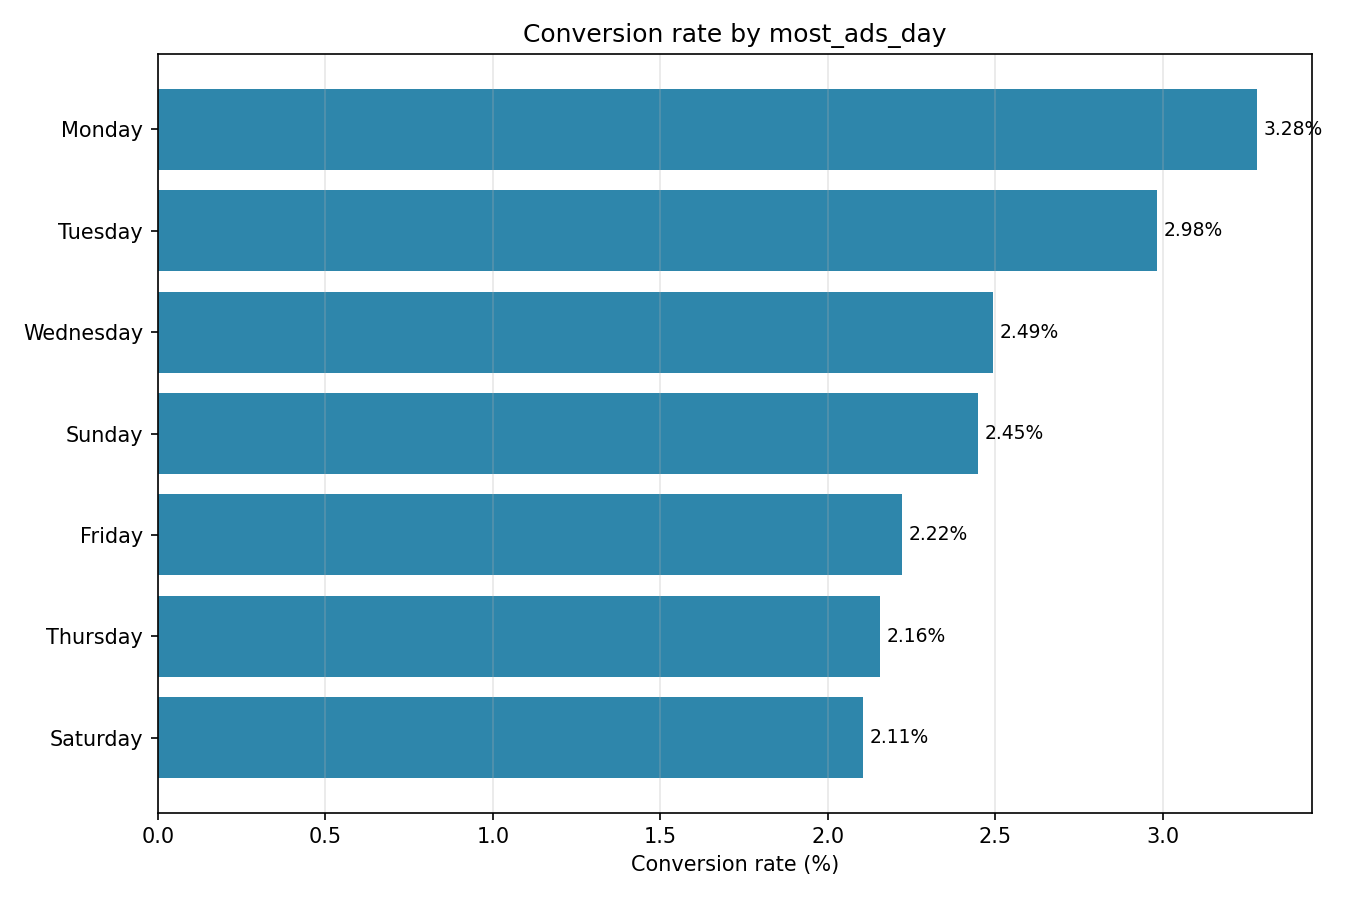
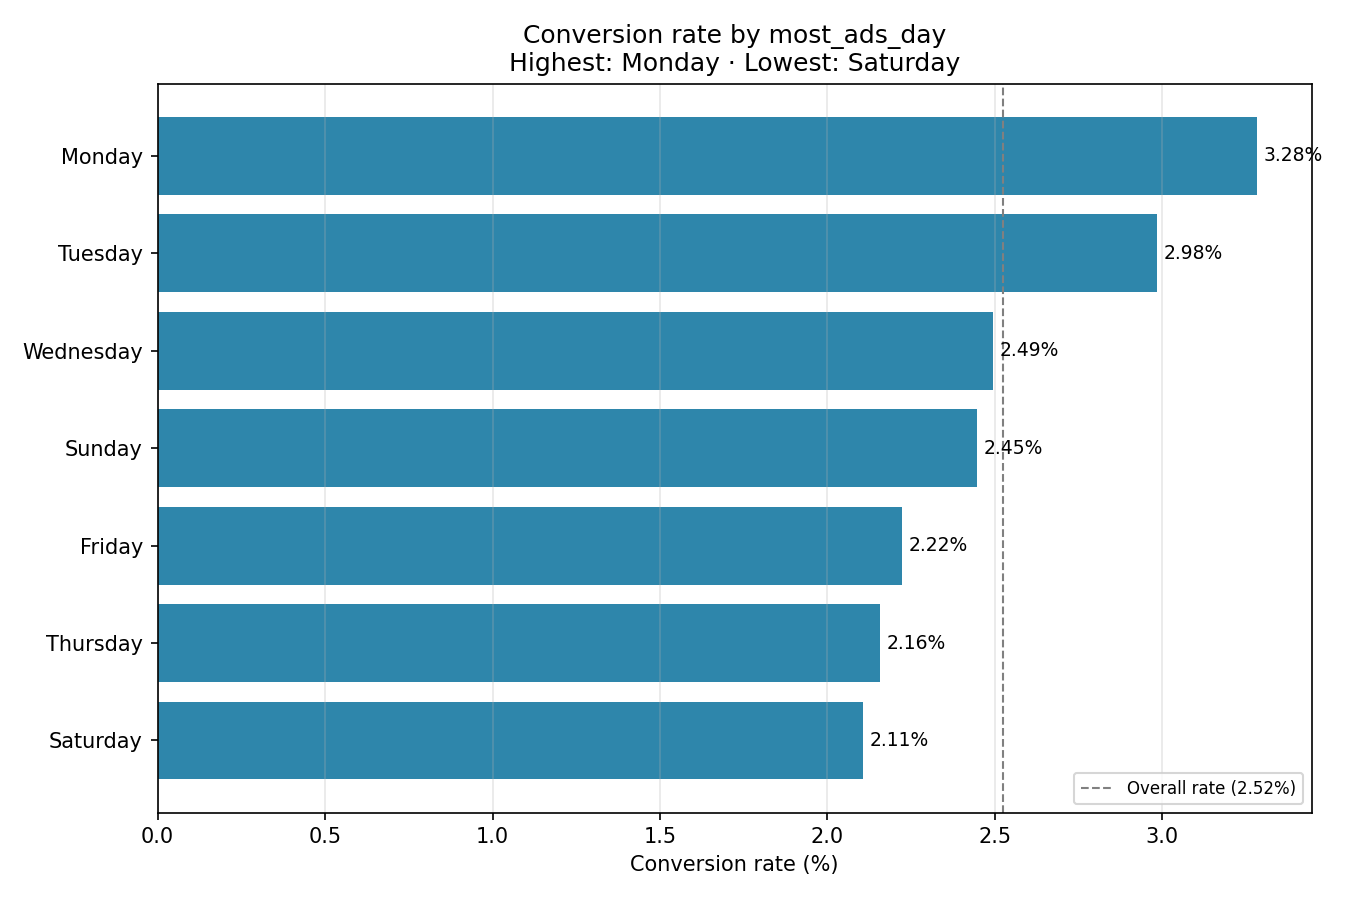
Address PR review: robustness fixes, clearer step 5/6 narrative and summaries
- Ensure results/ and figures/ output dirs exist before writing (all scripts)
- data_exploration: validate expected raw columns before rename, remove
  unused numpy import, save a summary deliverable, note missing date range
- key_metrics: note conversion_rate is the only comparable metric available
- fisher_exact_tests: lead with the headline test_group comparison, rename
  total_attempts -> total_users, add a significant-pairs summary + takeaway,
  annotate the rate comparison chart
- multiple_comparisons_correction: explain per-family correction counts,
  print comparisons that lost significance after correction

diff --git a/lab_statistical_analysis_mudit/fisher_exact_tests.py b/lab_statistical_analysis_mudit/fisher_exact_tests.py
@@ -1,8 +1,15 @@
 """
 Step 5: Compare Binary Outcomes Using Fisher's Exact Test
 =============================================================
-Pairwise Fisher's exact tests on `converted` across the 7 most_ads_day groups,
-plus the headline ad-vs-psa experimental comparison.
+Two binary-outcome (`converted`) comparisons, both required by this step:
+
+  1. HEADLINE: test_group (ad vs. psa) — the dataset's actual randomized
+     experiment arm, and the primary binary-outcome comparison this lab asks for.
+  2. SECONDARY: most_ads_day (7 groups, 21 pairs) — day-of-week is not an
+     experiment arm, but it's the only other categorical grouping variable
+     this dataset supports (see dataset_selection.md), and it's what drives
+     the ad-delivery-timing recommendation in business_recommendations.py.
+     Read these as descriptive/exploratory, not causal, comparisons.
 """
 import itertools
 import os
@@ -16,23 +23,28 @@ os.chdir(os.path.dirname(os.path.abspath(__file__)))  # run correctly regardless
 
 pd.set_option("display.width", 120)
 
+os.makedirs("results", exist_ok=True)
+os.makedirs("figures", exist_ok=True)
+
 df = pd.read_csv("data/marketing_data.csv")
 day_order = ["Monday", "Tuesday", "Wednesday", "Thursday", "Friday", "Saturday", "Sunday"]
 
 
 def run_pairwise_fisher(data, group_col, groups):
+    # total_users: the outcome here is one conversion decision per user, not repeated
+    # trials, so "users" (not "attempts") is the accurate denominator label.
     agg = data.groupby(group_col, observed=True)["converted"].agg(
-        conversions="sum", total_attempts="count"
+        conversions="sum", total_users="count"
     )
-    agg["non_conversions"] = agg["total_attempts"] - agg["conversions"]
-    agg["rate"] = agg["conversions"] / agg["total_attempts"]
+    agg["non_conversions"] = agg["total_users"] - agg["conversions"]
+    agg["rate"] = agg["conversions"] / agg["total_users"]
     print(agg.round(4))
     print()
 
     results = []
     for group_a, group_b in itertools.combinations(groups, 2):
-        conv_a, tot_a, nonconv_a = agg.loc[group_a, ["conversions", "total_attempts", "non_conversions"]]
-        conv_b, tot_b, nonconv_b = agg.loc[group_b, ["conversions", "total_attempts", "non_conversions"]]
+        conv_a, tot_a, nonconv_a = agg.loc[group_a, ["conversions", "total_users", "non_conversions"]]
+        conv_b, tot_b, nonconv_b = agg.loc[group_b, ["conversions", "total_users", "non_conversions"]]
 
         table = [[conv_a, nonconv_a], [conv_b, nonconv_b]]
         odds_ratio, p_value = fisher_exact(table, alternative="two-sided")
@@ -66,9 +78,23 @@ def run_pairwise_fisher(data, group_col, groups):
     return pd.DataFrame(results), agg
 
 
-# 1. Pairwise Fisher's exact across most_ads_day (7 groups, 21 pairs) --------
+# 1. HEADLINE comparison: test_group (ad vs. psa), the randomized experiment arm --------
 print("=" * 70)
-print("CONVERSION SUMMARY BY most_ads_day")
+print("HEADLINE COMPARISON: test_group (ad vs. psa)")
+print("=" * 70)
+arm_df, arm_agg = run_pairwise_fisher(df, "test_group", ["ad", "psa"])
+arm_df.to_csv("results/fisher_results_ad_vs_psa.csv", index=False)
+print(
+    f"\nTakeaway: ad vs. psa differ by {arm_df.loc[0, 'pct_difference']:+.1f}% relative "
+    f"(p={arm_df.loc[0, 'p_value']:.2e}) — statistically significant and, at this size of "
+    "relative difference, also practically meaningful for the experiment's core question "
+    "(does showing the ad increase conversion vs. the psa control)."
+)
+
+# 2. SECONDARY comparison: most_ads_day (7 groups, 21 pairs, descriptive/exploratory) ----
+print()
+print("=" * 70)
+print("CONVERSION SUMMARY BY most_ads_day (secondary grouping — see module docstring)")
 print("=" * 70)
 fisher_df, day_agg = run_pairwise_fisher(df, "most_ads_day", day_order)
 fisher_df.to_csv("results/fisher_results_by_day.csv", index=False)
@@ -77,23 +103,40 @@ n_sig = fisher_df["significant_uncorrected"].sum()
 print()
 print(f"Total comparisons: {len(fisher_df)} | Significant at alpha=0.05 (uncorrected): {n_sig}")
 
-# 2. Headline comparison: test_group (ad vs. psa) ----------------------------
+# 2b. Compact summary of significant pairs + practical-meaningfulness takeaway -----------
+# "Practically meaningful" here is a rough screen (>=10% relative difference), not a formal
+# effect-size threshold — Step 6 (FDR correction) and business_recommendations.py are what
+# actually decide which of these findings drive the recommendation.
+sig_pairs = fisher_df[fisher_df["significant_uncorrected"]].copy()
+sig_pairs["practically_meaningful"] = sig_pairs["pct_difference"].abs() >= 10
 print()
-print("=" * 70)
-print("HEADLINE COMPARISON: test_group (ad vs. psa)")
-print("=" * 70)
-arm_df, arm_agg = run_pairwise_fisher(df, "test_group", ["ad", "psa"])
-arm_df.to_csv("results/fisher_results_ad_vs_psa.csv", index=False)
+print("Significant pairs (uncorrected) — rate difference and a rough practical-meaningfulness screen:")
+print(
+    sig_pairs[["group_a", "group_b", "rate_a", "rate_b", "pct_difference", "p_value", "practically_meaningful"]]
+    .sort_values("pct_difference", key=abs, ascending=False)
+    .round(4)
+    .to_string(index=False)
+)
+n_meaningful = sig_pairs["practically_meaningful"].sum()
+print(
+    f"\nTakeaway: {n_sig} of {len(fisher_df)} most_ads_day pairs are significant before correction; "
+    f"{n_meaningful} of those also clear a >=10% relative-difference screen for practical relevance. "
+    "See multiple_comparisons_correction.py for which of these survive FDR/Bonferroni correction."
+)
 
 # 3. Visualize rate comparisons (by most_ads_day) ----------------------------
 sorted_agg = day_agg.sort_values("rate")
+overall_rate = df["converted"].mean() * 100
+best_day, worst_day = sorted_agg["rate"].idxmax(), sorted_agg["rate"].idxmin()
 fig, ax = plt.subplots(figsize=(9, 6))
 bars = ax.barh(sorted_agg.index.astype(str), sorted_agg["rate"] * 100, color="#2E86AB")
 for bar, rate in zip(bars, sorted_agg["rate"]):
     ax.text(bar.get_width() + 0.02, bar.get_y() + bar.get_height() / 2,
              f"{rate:.2%}", va="center", fontsize=9)
+ax.axvline(overall_rate, color="gray", linestyle="--", linewidth=1, label=f"Overall rate ({overall_rate:.2f}%)")
 ax.set_xlabel("Conversion rate (%)")
-ax.set_title("Conversion rate by most_ads_day")
+ax.set_title(f"Conversion rate by most_ads_day\nHighest: {best_day} · Lowest: {worst_day}")
+ax.legend(fontsize=8)
 ax.grid(axis="x", alpha=0.3)
 fig.tight_layout()
 fig.savefig("figures/rate_comparison.png", dpi=150)

diff --git a/lab_statistical_analysis_mudit/data_exploration.py b/lab_statistical_analysis_mudit/data_exploration.py
@@ -9,7 +9,6 @@ fields and how the grouping variable / metrics were adapted.
 """
 import os
 
-import numpy as np
 import pandas as pd
 
 os.chdir(os.path.dirname(os.path.abspath(__file__)))  # run correctly regardless of invocation directory
@@ -19,9 +18,22 @@ pd.set_option("display.max_columns", 20)
 
 RAW_PATH = "../data/marketing_AB.csv"
 CLEAN_PATH = "data/marketing_data.csv"
+SUMMARY_PATH = "results/data_exploration_summary.csv"
+
+os.makedirs("data", exist_ok=True)
+os.makedirs("results", exist_ok=True)
 
 # 1. Load ---------------------------------------------------------------
 df = pd.read_csv(RAW_PATH)
+
+EXPECTED_COLUMNS = {
+    "user id", "test group", "converted", "total ads", "most ads day", "most ads hour",
+}
+missing = EXPECTED_COLUMNS - set(df.columns)
+assert not missing, (
+    f"Expected column(s) missing from {RAW_PATH}: {sorted(missing)} — "
+    "the rename step below assumes these exact source names are present."
+)
 
 print("=" * 70)
 print("RAW DATA — shape, columns, dtypes")
@@ -96,8 +108,40 @@ print("Continuous metric: total_ads (ad exposure per user)")
 print("Binary outcome: converted")
 print()
 print("Overall conversion rate: {:.4%}".format(df["converted"].mean()))
+print()
+print("Date range: not available — this dataset has no date/timestamp column, only the "
+      "categorical most_ads_day / most_ads_hour fields (see dataset_selection.md).")
 
-# 5. Save ---------------------------------------------------------------
+# 5. Save quality-check summary -----------------------------------------------
+# A compact, reviewable record of the checks above (group sizes + data quality),
+# separate from the console log, so this deliverable doesn't require re-running the script.
+summary_df = pd.DataFrame(
+    {
+        "check": [
+            "rows",
+            "missing_values_total",
+            "duplicate_rows",
+            "duplicate_user_ids",
+            "date_range",
+            "overall_conversion_rate",
+        ],
+        "value": [
+            len(df),
+            int(df.isnull().sum().sum()),
+            int(df.duplicated().sum()),
+            int(df["user_id"].duplicated().sum()),
+            "not available (no date column)",
+            f"{df['converted'].mean():.4%}",
+        ],
+    }
+)
+group_counts = df["most_ads_day"].value_counts().sort_index().rename_axis("check").reset_index(name="value")
+group_counts["check"] = "group_count_" + group_counts["check"].astype(str)
+summary_df = pd.concat([summary_df, group_counts], ignore_index=True)
+summary_df.to_csv(SUMMARY_PATH, index=False)
+print(f"Saved exploration summary to {SUMMARY_PATH}")
+
+# 6. Save cleaned dataset -------------------------------------------------
 df.to_csv(CLEAN_PATH, index=False)
 print()
 print(f"Saved cleaned dataset to {CLEAN_PATH} ({len(df):,} rows)")

diff --git a/lab_statistical_analysis_mudit/multiple_comparisons_correction.py b/lab_statistical_analysis_mudit/multiple_comparisons_correction.py
@@ -16,6 +16,9 @@ os.chdir(os.path.dirname(os.path.abspath(__file__)))  # run correctly regardless
 
 pd.set_option("display.width", 120)
 
+os.makedirs("results", exist_ok=True)
+os.makedirs("figures", exist_ok=True)
+
 ALPHA = 0.05
 
 ttest_df = pd.read_csv("results/ttest_results.csv")
@@ -33,6 +36,11 @@ print(f"At alpha={ALPHA}, we expect ~{expected_false_positives:.2f} false positi
       f"even if none of the true underlying differences existed.")
 print("Some of the 'significant' results found in Steps 4-5 are therefore likely to be noise, "
       "not real differences — correction is needed before acting on them.")
+print("Note: Bonferroni and FDR below are each applied separately within their own test family "
+      "(21 t-tests, 21 Fisher's exact tests) — that's why the correction counts are out of 21 "
+      "per family, not out of the combined 42. Each family is a distinct set of null hypotheses, "
+      "so correcting them jointly would conflate two different questions (mean ad exposure vs. "
+      "conversion rate) into one.")
 
 
 def apply_corrections(df, label):
@@ -61,6 +69,17 @@ def apply_corrections(df, label):
     if n_fdr > 0:
         print("\nComparisons remaining significant after FDR:")
         print(df.loc[df["significant_fdr"], ["group_a", "group_b", "p_value", "p_value_fdr"]])
+
+    # Correction only ever removes significance relative to the uncorrected result (never adds
+    # it), so "changed status" means: significant uncorrected, but not after this method.
+    flipped_bonf = df.loc[(df["p_value"] < ALPHA) & ~df["significant_bonferroni"]]
+    flipped_fdr = df.loc[(df["p_value"] < ALPHA) & ~df["significant_fdr"]]
+    if len(flipped_bonf) > 0:
+        print("\nComparisons that lost significance under Bonferroni (were significant uncorrected):")
+        print(flipped_bonf[["group_a", "group_b", "p_value"]].to_string(index=False))
+    if len(flipped_fdr) > 0:
+        print("\nComparisons that lost significance under FDR (were significant uncorrected):")
+        print(flipped_fdr[["group_a", "group_b", "p_value", "p_value_fdr"]].to_string(index=False))
 
     return df, n_uncorrected, n_bonf, n_fdr
 

diff --git a/lab_statistical_analysis_mudit/key_metrics.py b/lab_statistical_analysis_mudit/key_metrics.py
@@ -18,6 +18,9 @@ os.chdir(os.path.dirname(os.path.abspath(__file__)))  # run correctly regardless
 
 pd.set_option("display.width", 120)
 
+os.makedirs("results", exist_ok=True)
+os.makedirs("figures", exist_ok=True)
+
 df = pd.read_csv("data/marketing_data.csv")
 day_order = ["Monday", "Tuesday", "Wednesday", "Thursday", "Friday", "Saturday", "Sunday"]
 df["most_ads_day"] = pd.Categorical(df["most_ads_day"], categories=day_order, ordered=True)
@@ -53,6 +56,9 @@ print("=" * 70)
 print("ARM SUMMARY — by test_group (ad vs. psa)")
 print("=" * 70)
 print(arm_summary)
+print()
+print("Note: conversion_rate is the main comparable metric in this lab — this dataset has no "
+      "cost, revenue, or impression data, so CPA, ROAS, and CTR are not available (see dataset_selection.md).")
 
 group_summary.to_csv("results/group_summary_by_day.csv")
 arm_summary.to_csv("results/arm_summary_ad_vs_psa.csv")

diff --git a/lab_statistical_analysis_mudit/ttest_comparisons.py b/lab_statistical_analysis_mudit/ttest_comparisons.py
@@ -16,6 +16,9 @@ os.chdir(os.path.dirname(os.path.abspath(__file__)))  # run correctly regardless
 
 pd.set_option("display.width", 120)
 
+os.makedirs("results", exist_ok=True)
+os.makedirs("figures", exist_ok=True)
+
 df = pd.read_csv("data/marketing_data.csv")
 day_order = ["Monday", "Tuesday", "Wednesday", "Thursday", "Friday", "Saturday", "Sunday"]
 

diff --git a/lab_statistical_analysis_mudit/business_recommendations.py b/lab_statistical_analysis_mudit/business_recommendations.py
@@ -15,6 +15,8 @@ os.chdir(os.path.dirname(os.path.abspath(__file__)))  # run correctly regardless
 pd.set_option("display.width", 120)
 rng = np.random.default_rng(7)
 
+os.makedirs("results", exist_ok=True)
+
 df = pd.read_csv("data/marketing_data.csv")
 day_order = ["Monday", "Tuesday", "Wednesday", "Thursday", "Friday", "Saturday", "Sunday"]
 

diff --git a/lab_statistical_analysis_mudit/power_analysis.py b/lab_statistical_analysis_mudit/power_analysis.py
@@ -24,6 +24,9 @@ os.chdir(os.path.dirname(os.path.abspath(__file__)))  # run correctly regardless
 pd.set_option("display.width", 120)
 rng = np.random.default_rng(42)
 
+os.makedirs("results", exist_ok=True)
+os.makedirs("figures", exist_ok=True)
+
 df = pd.read_csv("data/marketing_data.csv")
 
 BASE_TOTAL_ADS_MEAN = df["total_ads"].mean()
